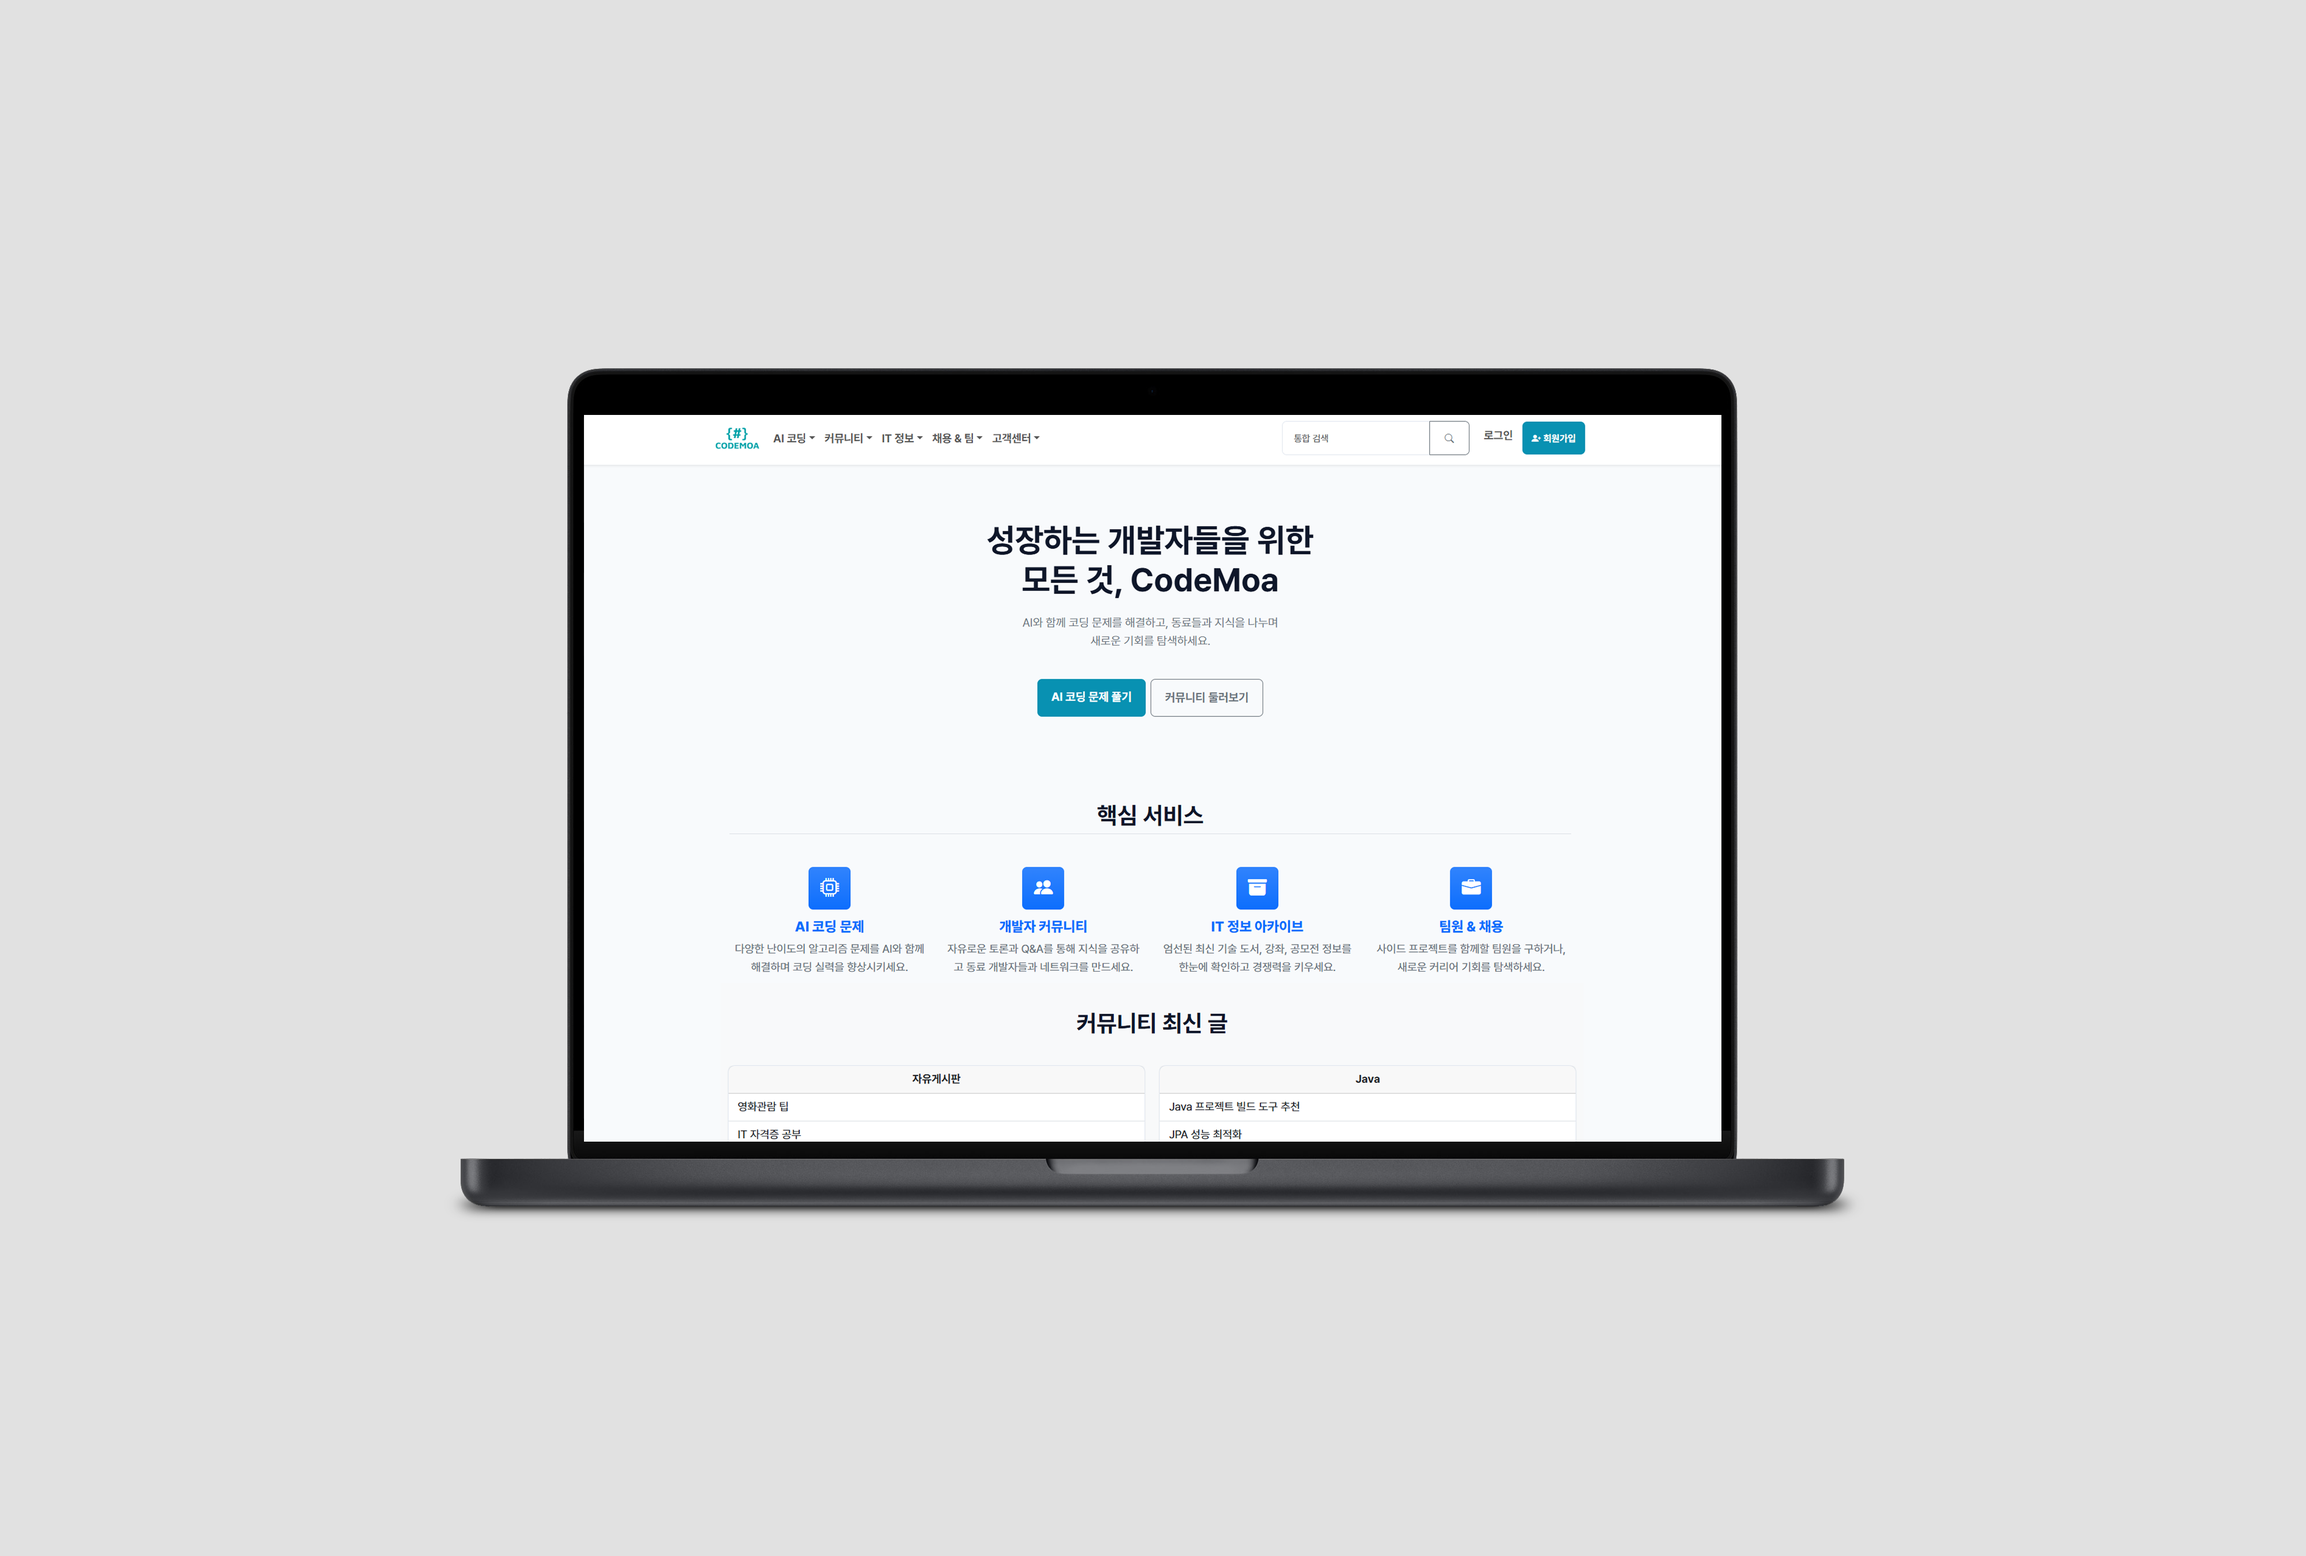
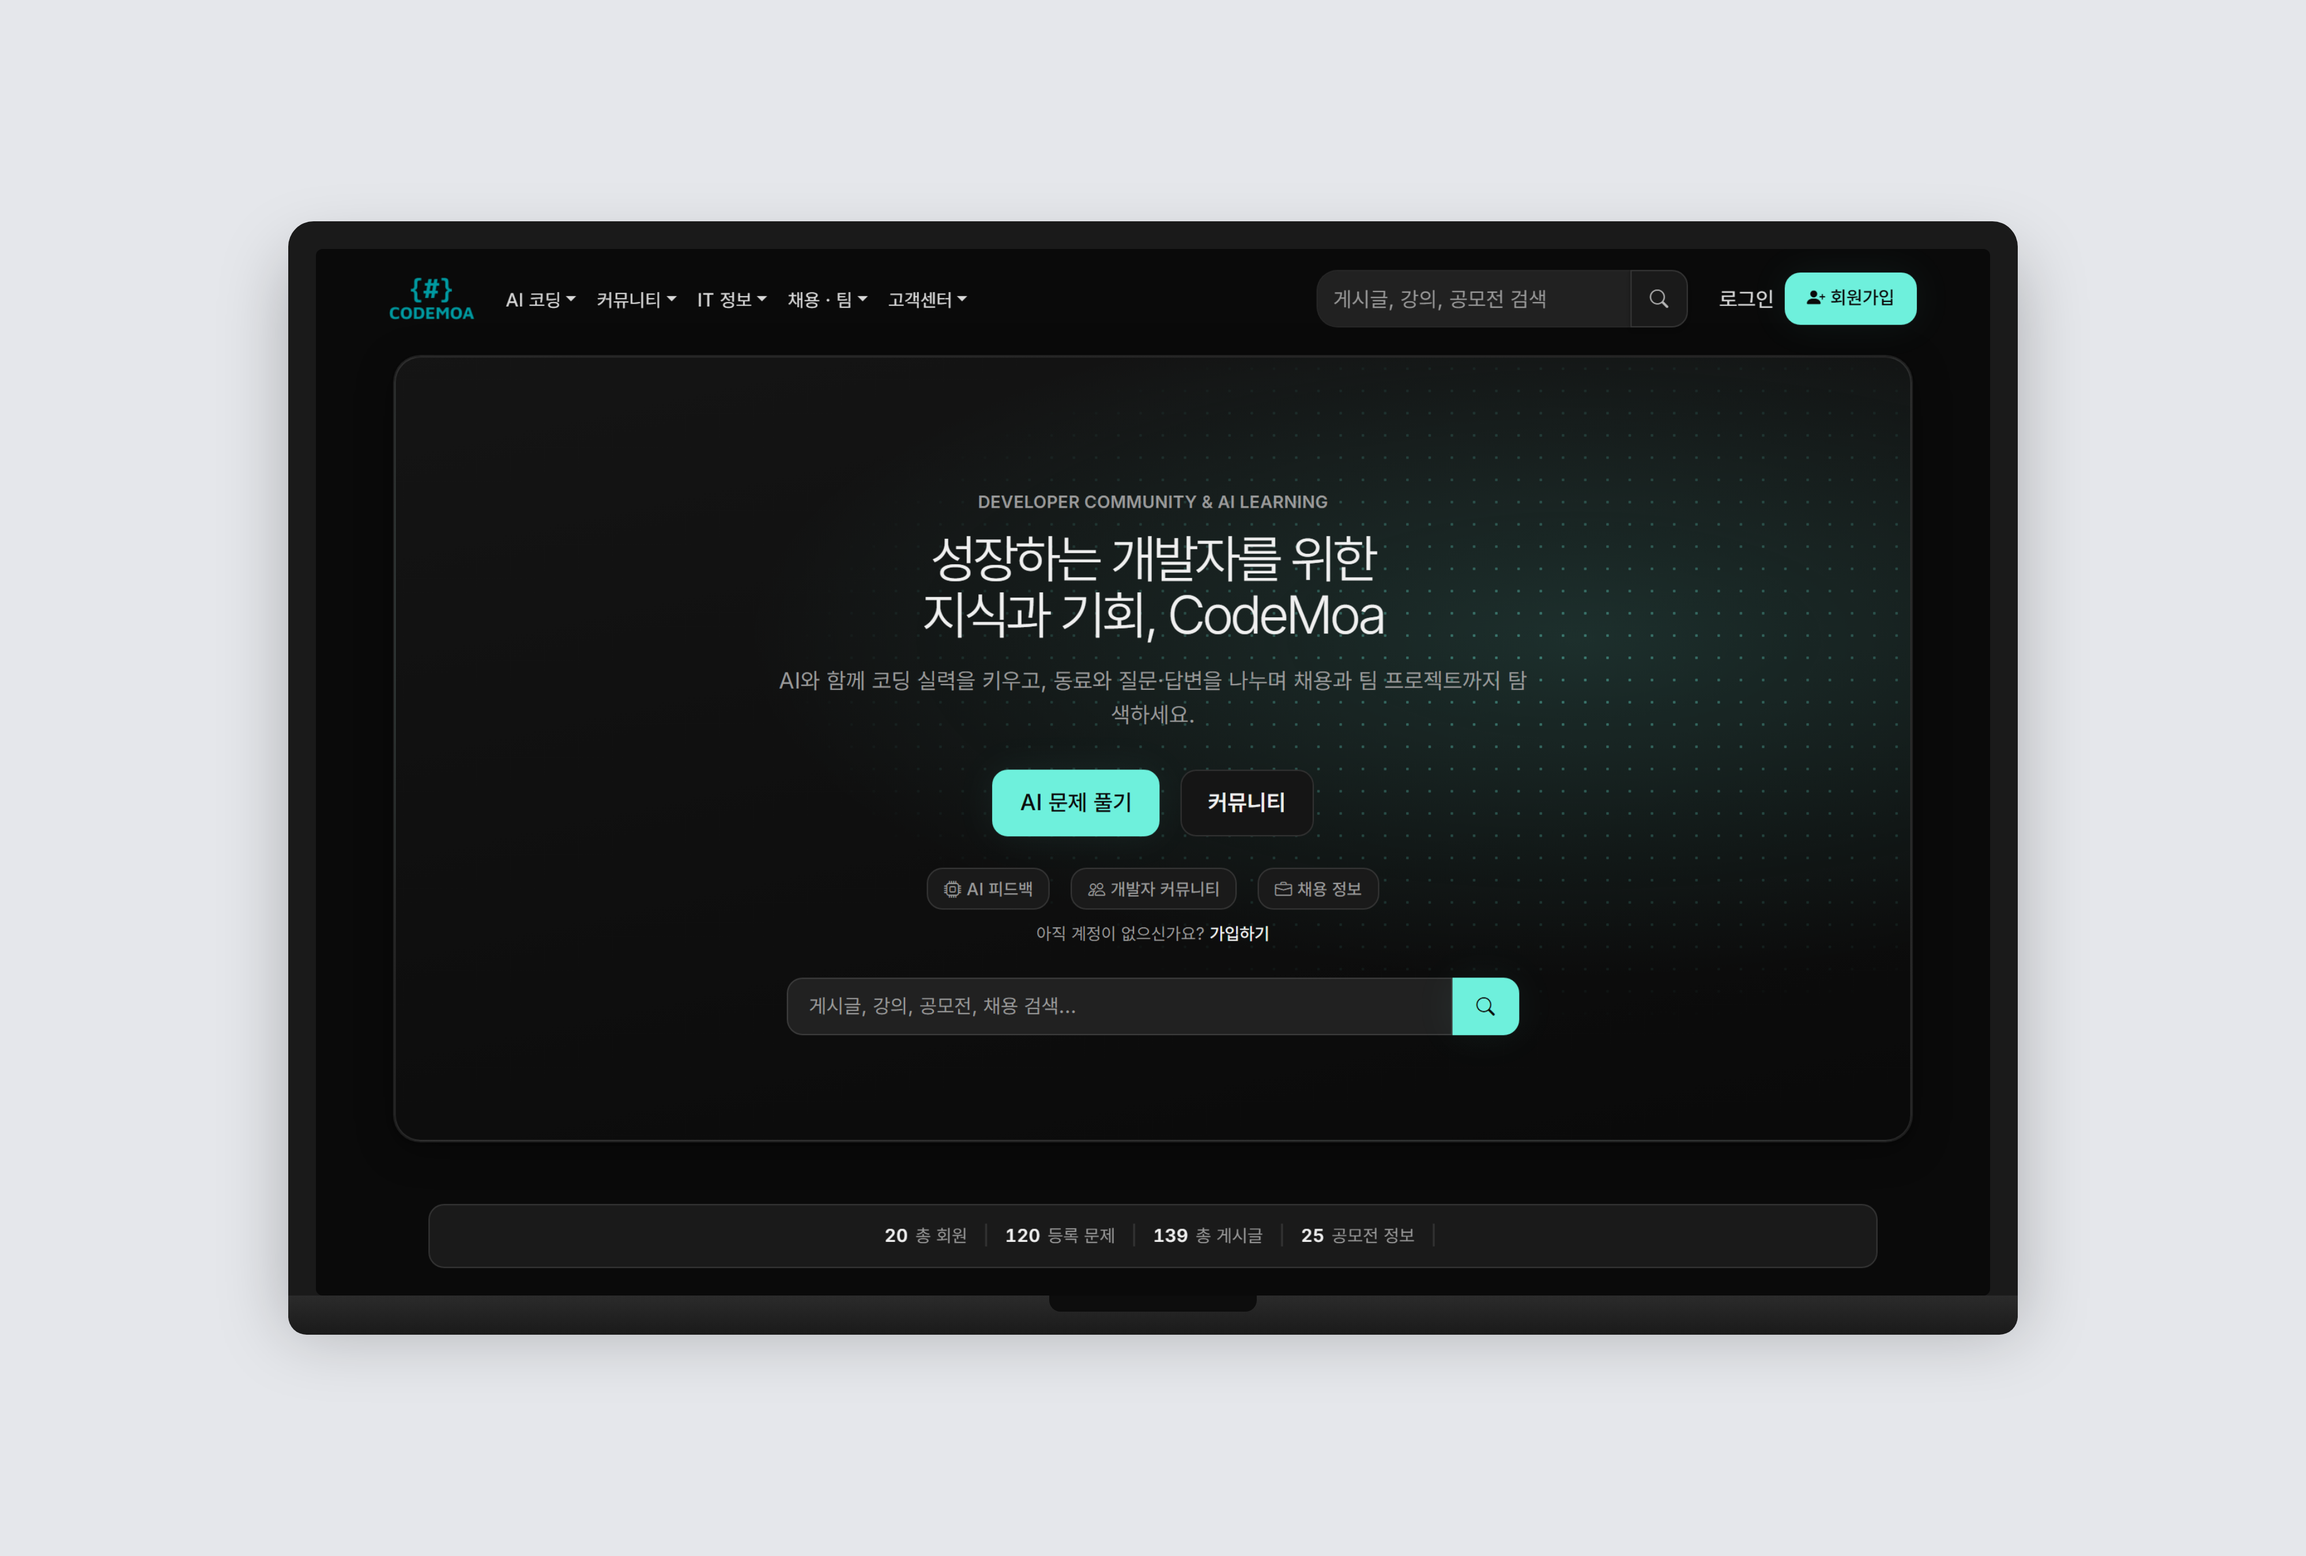
content: CodeMoa 썸네일을 현재 NCP 배포 사이트 실제 스크린샷으로 교체, 만료된 AWS Live Demo 링크를 현재 서버로 수정

diff --git a/src/index.html b/src/index.html
@@ -144,7 +144,7 @@
 
               <div class="flex flex-wrap gap-4 pt-4">
                 <a href="https://github.com/orionrich1/codemoa" target="_blank" rel="noopener noreferrer" class="bg-gray-700 text-white font-bold py-2 px-6 rounded-full hover:bg-gray-600 transition-colors">GitHub Repository</a>
-                <a href="http://13.124.7.63:8080" target="_blank" rel="noopener noreferrer" class="bg-cMain text-white font-bold py-2 px-6 rounded-full hover:bg-white hover:text-cBlack transition-colors">Live Demo</a>
+                <a href="http://49.50.142.244:8080" target="_blank" rel="noopener noreferrer" class="bg-cMain text-white font-bold py-2 px-6 rounded-full hover:bg-white hover:text-cBlack transition-colors">Live Demo</a>
               </div>
             </div>
           </div>
